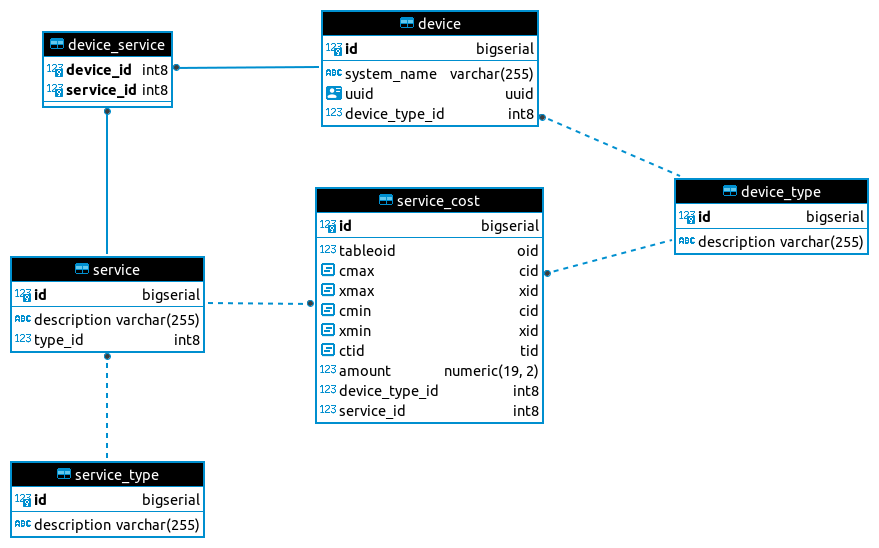
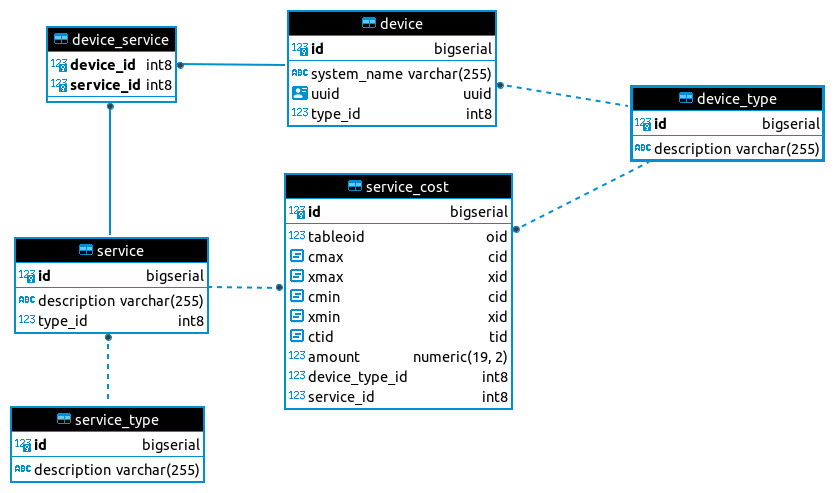
RMM Platform
- Flyway database migration tool added
 - Database migration files added
 - Documentation updated

diff --git a/src/main/java/com/ninjaone/rmmplatform/model/Device.java b/src/main/java/com/ninjaone/rmmplatform/model/Device.java
@@ -23,7 +23,7 @@ public class Device {
     private String systemName;
 
     @ManyToOne(optional = false)
-    @JoinColumn(name = "device_type_id")
+    @JoinColumn(name = "type_id")
     private DeviceType type;
 
     @ManyToMany

diff --git a/src/main/java/com/ninjaone/rmmplatform/model/Service.java b/src/main/java/com/ninjaone/rmmplatform/model/Service.java
@@ -20,6 +20,7 @@ public class Service {
     private String description;
 
     @OneToOne(optional = false)
+    @JoinColumn(name = "type_id")
     private ServiceType type;
 
     @OneToMany(mappedBy = "service")

diff --git a/README.md b/README.md
@@ -9,6 +9,7 @@ This REST API in Java with data persistence fulfills the most basic requirements
 * [Gradle](https://gradle.org)
 * [Spring Boot](https://spring.io/projects/spring-boot)
 * [PostgreSQL](https://www.postgresql.org)
+* [Flyway](https://flywaydb.org)
 
 ## Build and tests
 
@@ -39,7 +40,20 @@ Run the `Application` class or use the gradle wrapper present in the project roo
 Go to:
 * http://localhost:8080/swagger-ui/index.html
 
+## Database
+
+Url, username and password are present in `src/main/resources/application.yml` file.
+
+```yml
+url: jdbc:postgresql://localhost:5432/rmm_platform
+username: user
+password: password
+```
+
+Tables and some test data are created by [Flyway](https://flywaydb.org) during application startup.
+
+Migration files are present in `src/main/resources/db/migration` folder.
+
 ## ER Diagram
 
 ![ER Diagram](src/main/resources/ER-diagram.png)
-
